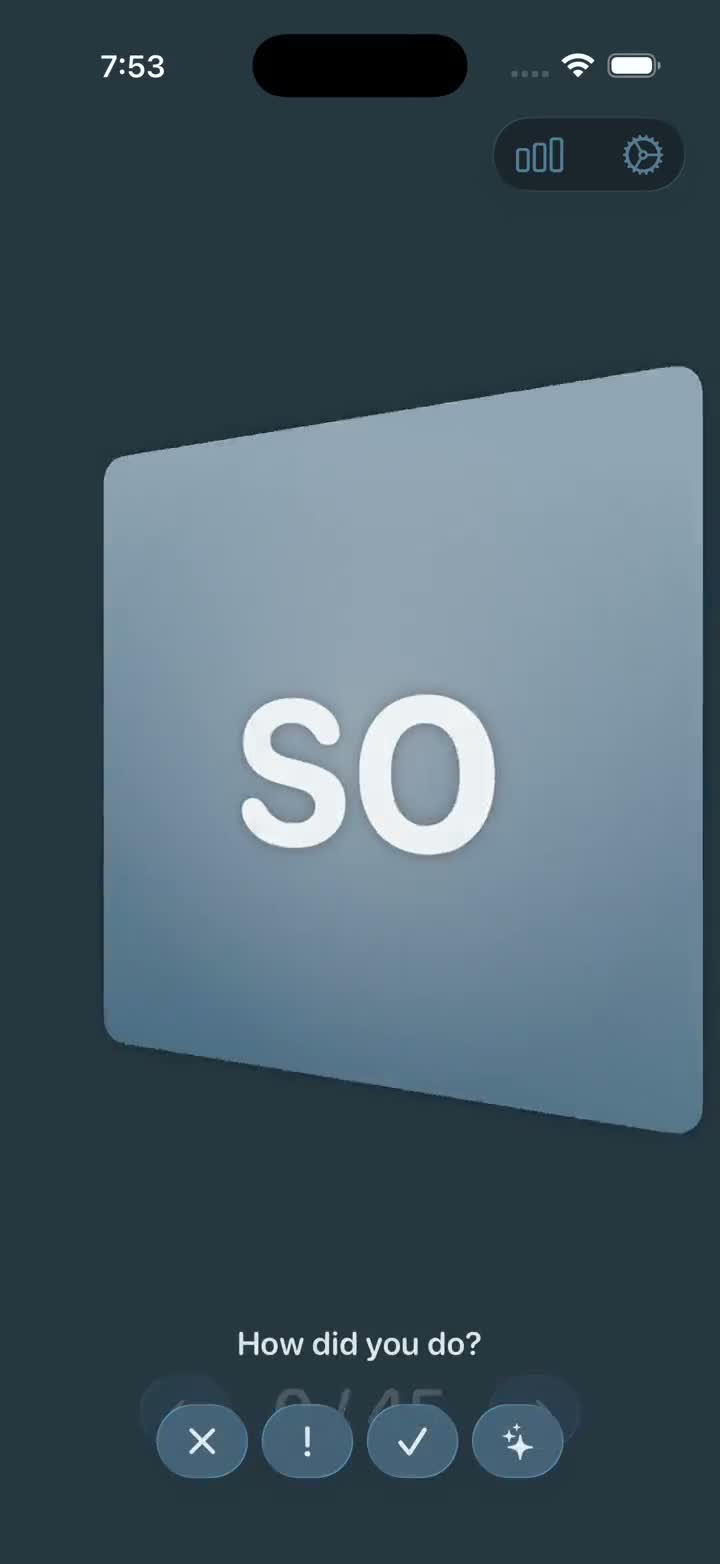
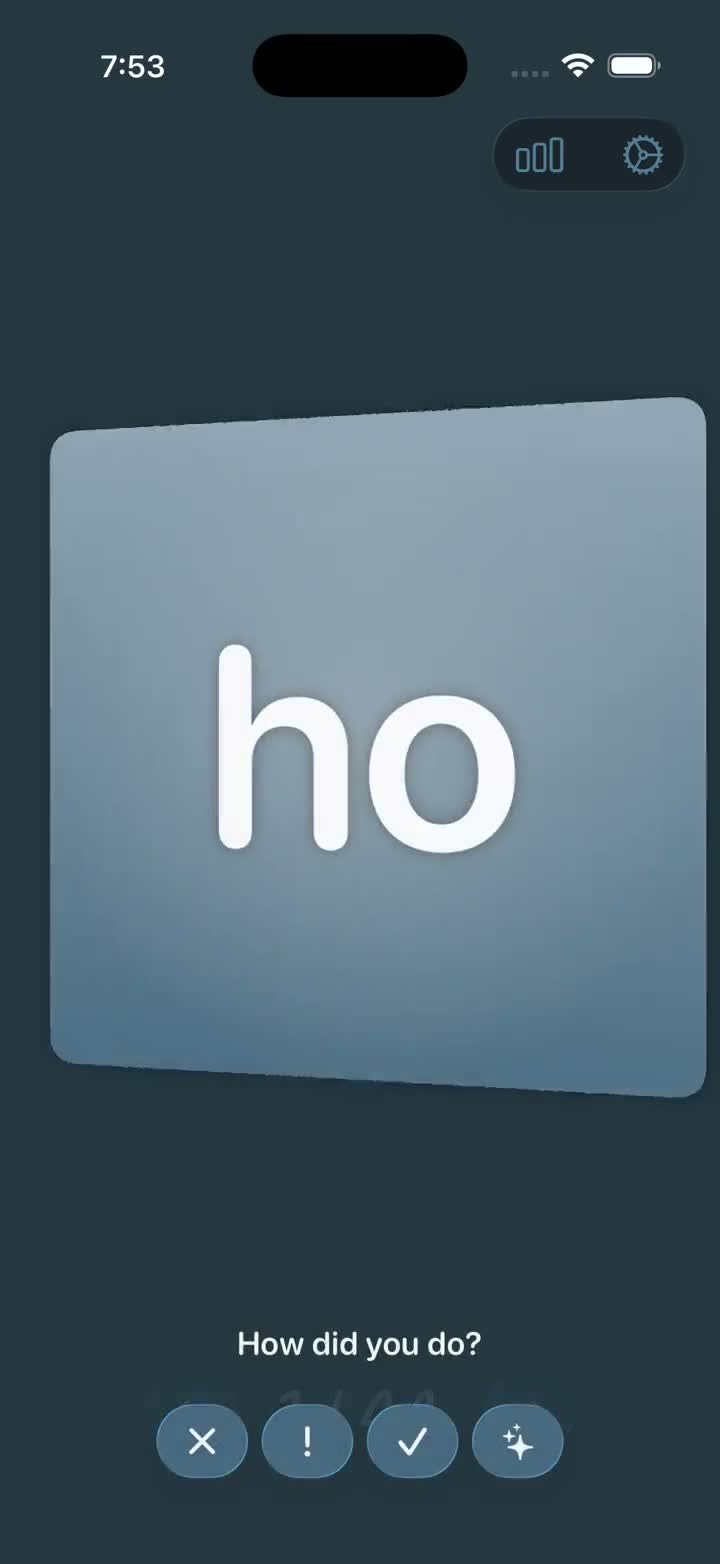
Fix KanaCard demo reading as a static screenshot
- Reworded the section heading to "See it in action"
- The recording has several-second static beats between actions, and
  the poster frame happened to freeze on one of them; regenerated it
  from a mid-flip moment instead so even a paused state looks alive
- Added the same "Watch Demo" badge used on the homepage's video, since
  this video had no visual cue at all that it was playable content
- preload="auto" on both demo videos (both under 1MB) so playback
  starts promptly instead of sitting on the poster while metadata-only
  preload catches up
- Moved the click-to-toggle-playback handler out of home.js into
  layout.js so both the homepage and the case study can use it

diff --git a/js/layout.js b/js/layout.js
@@ -39,3 +39,20 @@
         init();
     }
 })();
+
+// Demo videos (homepage Rogue Roll card, KanaCard case study) toggle
+// play/pause on click instead of just sitting there autoplaying with no
+// visible affordance. On the homepage the video also sits inside a card
+// that otherwise links out to the App Store, so this stops the click
+// before it reaches the enclosing <a>.
+window.toggleCardVideo = function (event, wrap) {
+    event.preventDefault();
+    event.stopPropagation();
+    var video = wrap.querySelector('video');
+    if (!video) return;
+    if (video.paused) {
+        video.play();
+    } else {
+        video.pause();
+    }
+};

diff --git a/js/home.js b/js/home.js
@@ -13,19 +13,3 @@
             : '<rect x="6" y="4" width="4" height="16"/><rect x="14" y="4" width="4" height="16"/>';
     };
 })();
-
-// Homepage: the Rogue Roll demo video sits inside a card that otherwise
-// links out to the App Store. Clicking the video itself should toggle
-// playback, not hijack navigation, so stop the click before it reaches
-// the enclosing <a>.
-window.toggleCardVideo = function (event, wrap) {
-    event.preventDefault();
-    event.stopPropagation();
-    var video = wrap.querySelector('video');
-    if (!video) return;
-    if (video.paused) {
-        video.play();
-    } else {
-        video.pause();
-    }
-};

diff --git a/kanacard.html b/kanacard.html
@@ -77,10 +77,16 @@
         </article>
 
         <div class="glass-card card-content case-card">
-            <h2 class="mt-0 text-center">See it move</h2>
-            <video class="demo-video" autoplay loop muted playsinline preload="metadata" poster="img/kanacard-demo-poster.jpg" aria-label="Screen recording of KanaCard: flicking through flashcards, flipping a card, and rating recall">
-                <source src="img/kanacard-demo.mp4" type="video/mp4">
-            </video>
+            <h2 class="mt-0 text-center">See it in action</h2>
+            <div class="demo-video-wrap" onclick="toggleCardVideo(event, this)">
+                <video class="demo-video" autoplay loop muted playsinline preload="auto" poster="img/kanacard-demo-poster.jpg" aria-label="Screen recording of KanaCard: flicking through flashcards, flipping a card, and rating recall">
+                    <source src="img/kanacard-demo.mp4" type="video/mp4">
+                </video>
+                <span class="video-cta" aria-hidden="true">
+                    <svg xmlns="http://www.w3.org/2000/svg" width="10" height="10" viewBox="0 0 24 24" fill="currentColor"><path d="M8 5v14l11-7z"/></svg>
+                    Watch Demo
+                </span>
+            </div>
         </div>
 
         <div class="glass-card card-content case-card">

diff --git a/css/pages.css b/css/pages.css
@@ -46,14 +46,21 @@
 
 .case-text { line-height: 1.7; margin-bottom: 15px; }
 
-.demo-video {
-    display: block;
-    width: 100%;
+/* Case-study demo video. The wrap owns layout/framing and the click
+   handler; .video-cta (defined below, shared with the homepage card
+   video) signals it's playable so a viewer who catches it mid-pause
+   doesn't mistake it for a static screenshot. */
+.demo-video-wrap {
+    position: relative;
     max-width: 340px;
     margin: 0 auto;
     border-radius: 28px;
+    overflow: hidden;
     box-shadow: 0 20px 40px rgba(0,0,0,0.25);
+    cursor: pointer;
 }
+
+.demo-video { display: block; width: 100%; }
 
 /* Inline demo video on a product card (e.g. Rogue Roll on the homepage).
    flex: 1 1 auto lets the video claim whatever slack space the featured

diff --git a/index.html b/index.html
@@ -106,7 +106,7 @@
                         <h3>Rogue Roll</h3>
                         <p>Roguelike dice deckbuilder. Published on the App Store with complex game logic.</p>
                         <div class="card-video-wrap" onclick="toggleCardVideo(event, this)">
-                            <video class="card-video" autoplay loop muted playsinline preload="metadata" poster="img/rogue-roll-demo-poster.jpg" aria-label="Screen recording of a Rogue Roll round in progress">
+                            <video class="card-video" autoplay loop muted playsinline preload="auto" poster="img/rogue-roll-demo-poster.jpg" aria-label="Screen recording of a Rogue Roll round in progress">
                                 <source src="img/rogue-roll-demo.mp4" type="video/mp4">
                             </video>
                             <span class="video-cta" aria-hidden="true">